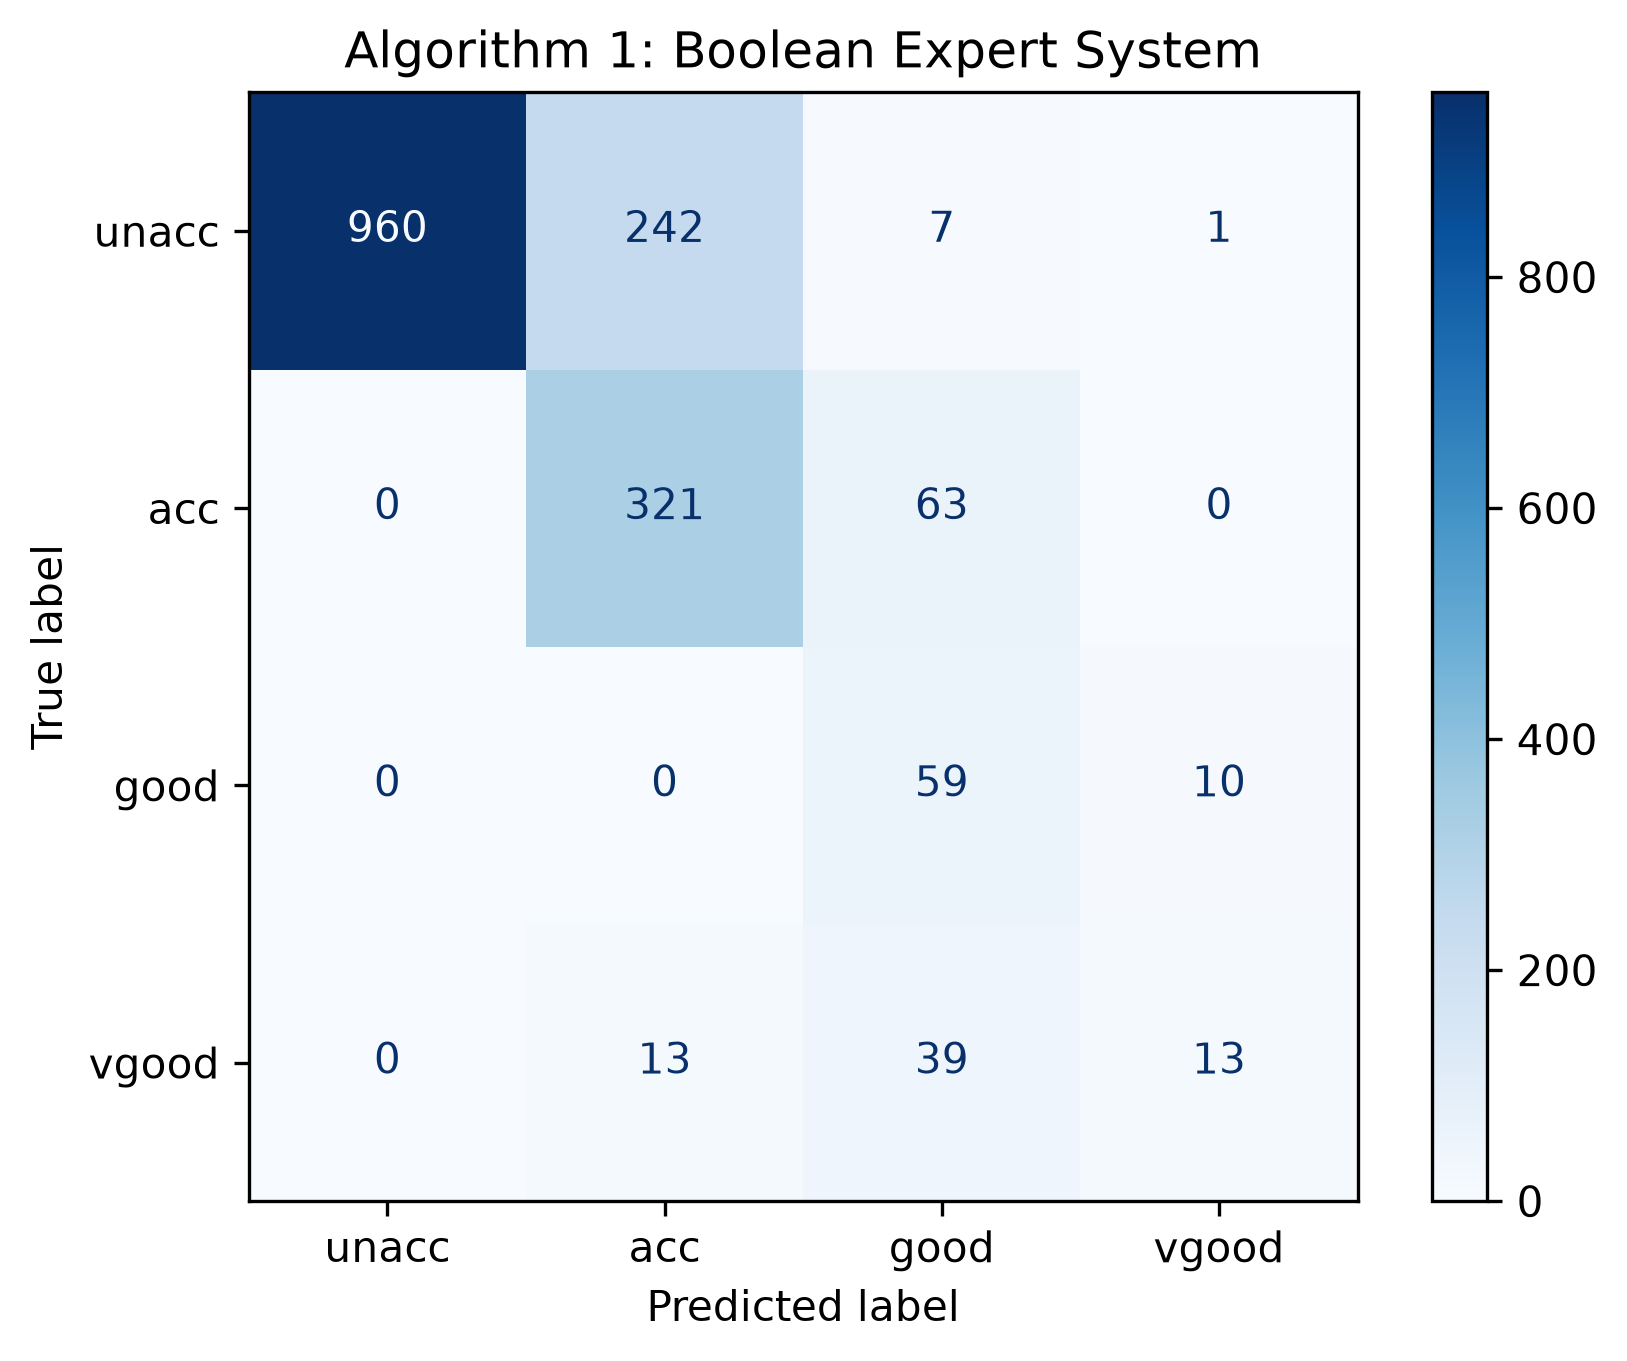
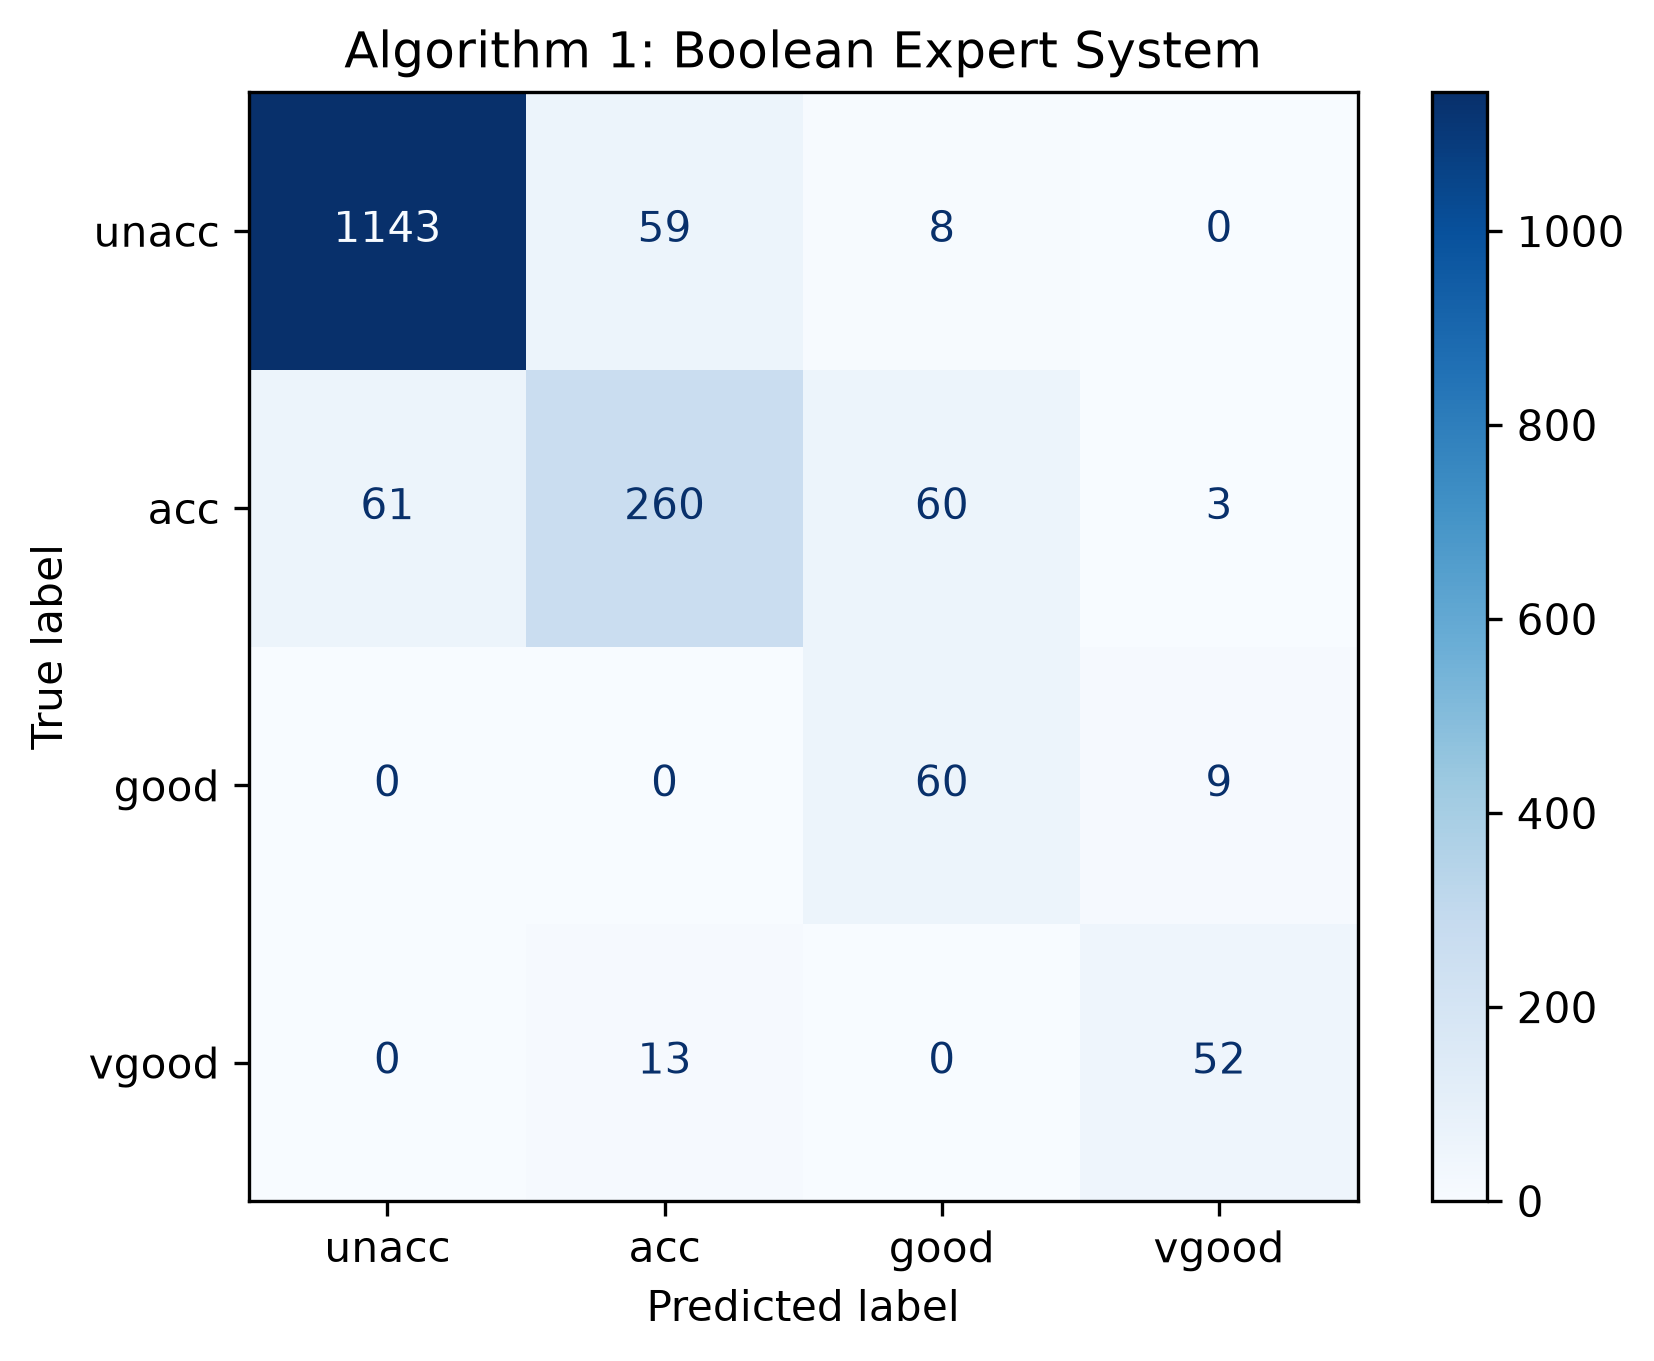
exceptional break through attempt
we have successfully increased the boolan expert system predictive rate to a high level through condition statement optimization.

diff --git a/main.py b/main.py
@@ -98,4 +98,9 @@ print(classification_report(y, predictions_alg2, zero_division=0))
 # Generate and save Alg 2 Confusion Matrix
 cm2 = confusion_matrix(y, predictions_alg2, labels=classes)
 disp2 = ConfusionMatrixDisplay(confusion_matrix=cm2, display_labels=classes)
-disp2.plot(cmap=plt
+disp2.plot(cmap=plt.cm.Oranges)
+plt.title("Algorithm 2: Weighted Scoring System")
+plt.savefig("alg2_matrix.png", bbox_inches='tight', dpi=300)
+plt.close()
+
+print("Images 'alg1_matrix.png' and 'alg2_matrix.png' have been saved to your folder!")
